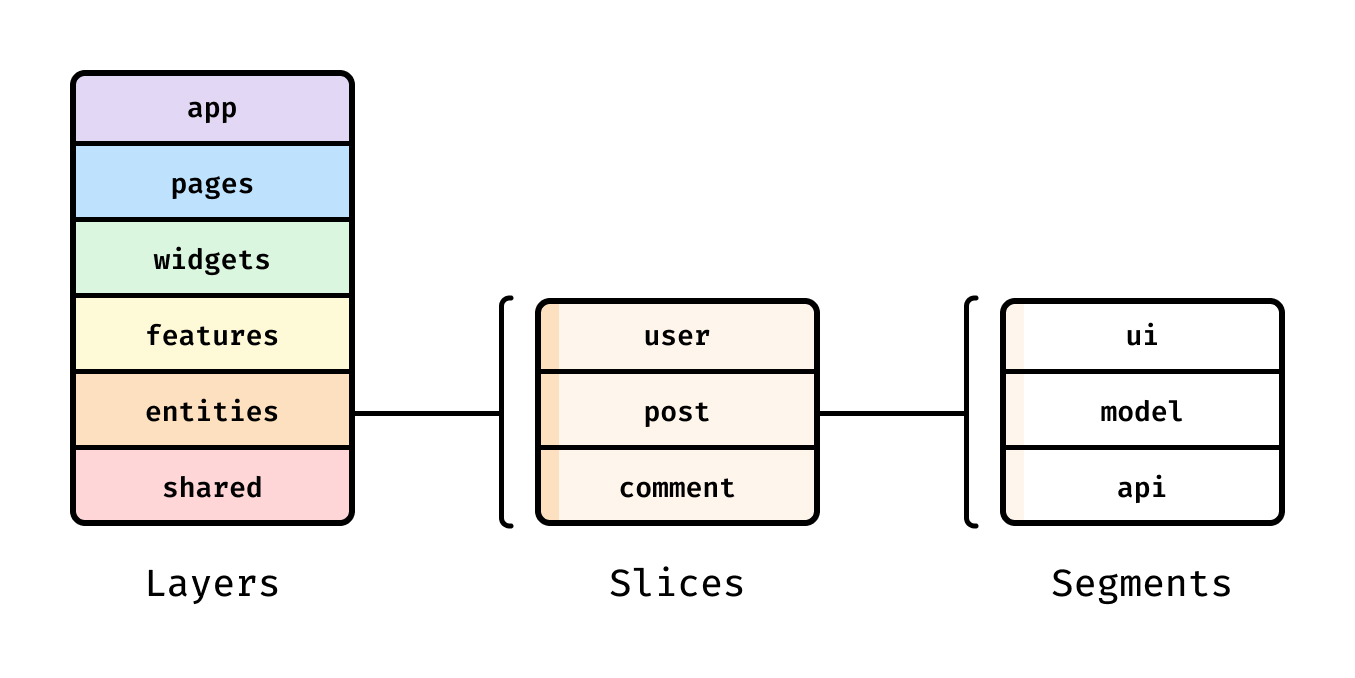
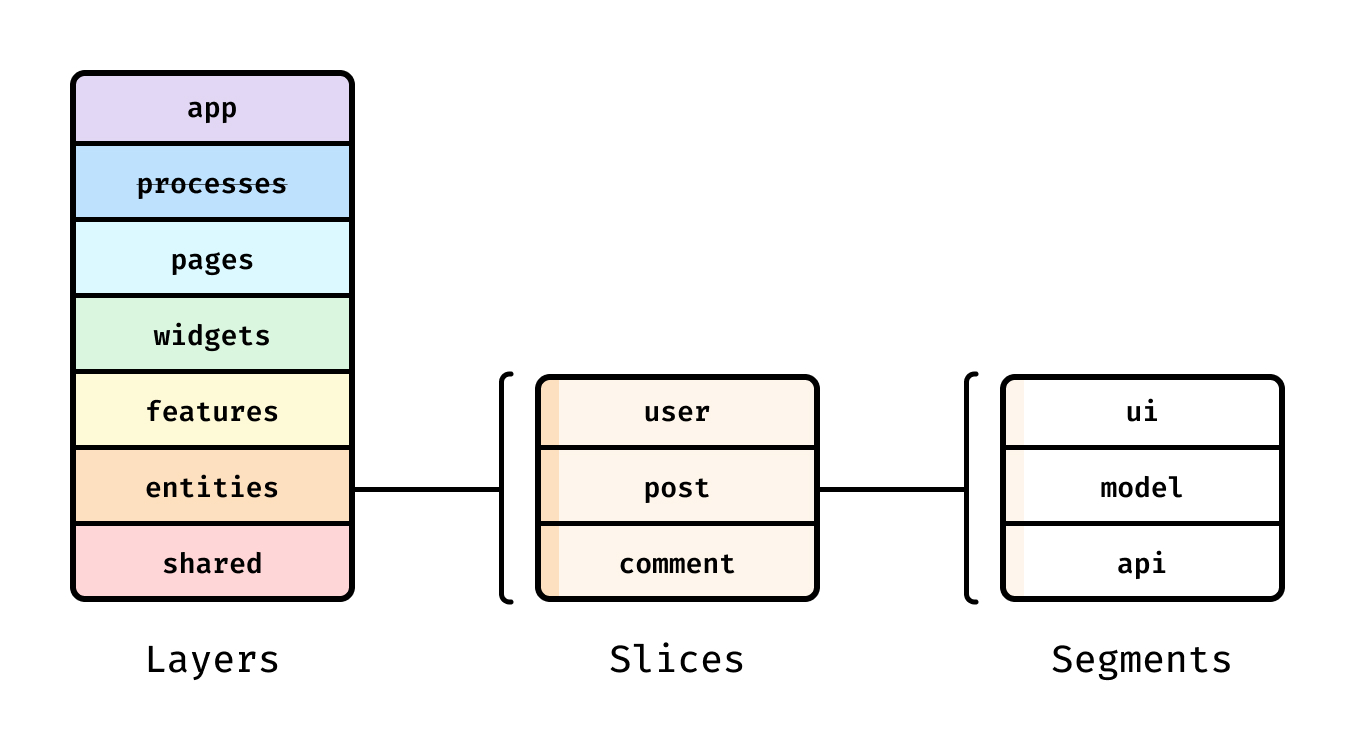
Revive processes under the mark "deprecated" (#571)

diff --git a/i18n/ru/docusaurus-plugin-content-docs/current/get-started/overview.md b/i18n/ru/docusaurus-plugin-content-docs/current/get-started/overview.md
@@ -34,7 +34,9 @@ FSD подходит для проектов и команд любого раз
 4. `widgets` (виджеты) — композиционный слой для соединения сущностей и фич в самостоятельные блоки
     <small>(например, IssuesList, UserProfile)</small>.
 5. `pages` (страницы) — композиционный слой для сборки полноценных страниц из сущностей, фич и виджетов.
-6. `app` — настройки, стили и провайдеры для всего приложения.
+6. `processes` (процессы, устаревший слой) — сложные сценарии, покрывающие несколько страниц.
+    <small>(например, авторизация)</small>
+7. `app` — настройки, стили и провайдеры для всего приложения.
 
 Затем есть **слайсы**, разделяющие код по предметной области. Они группируют логически связанные модули, что облегчает навигацию по кодовой базе. Слайсы не могут использовать другие слайсы на том же слое, что обеспечивает высокий уровень [_связности_][refs-wiki-cohesion] (cohesion) при низком уровне [_зацепления_][refs-wiki-coupling] (coupling).
 

diff --git a/i18n/en/docusaurus-plugin-content-docs/current/get-started/overview.md b/i18n/en/docusaurus-plugin-content-docs/current/get-started/overview.md
@@ -24,7 +24,7 @@ In FSD, a project consists of <mark>layers</mark>, each layer is made up of <mar
 
 ![themed--scheme](/img/visual_schema.jpg)
 
-The **layers** are standardized across all projects and vertically arranged. Modules on one layer can only interact with modules from the layers strictly below. There are currently six of them (bottom to top):
+The **layers** are standardized across all projects and vertically arranged. Modules on one layer can only interact with modules from the layers strictly below. There are currently seven of them (bottom to top):
 
 1. `shared` — reusable functionality, detached from the specifics of the project/business.
    <small>(e.g. UIKit, libs, API)</small>
@@ -35,7 +35,9 @@ The **layers** are standardized across all projects and vertically arranged. Mod
 4. `widgets` — compositional layer to combine entities and features into meaningful blocks.
    <small>(e.g. IssuesList, UserProfile)</small>
 5. `pages` — compositional layer to construct full pages from entities, features and widgets.
-6. `app` — app-wide settings, styles and providers.
+6. `processes` (deprecated) — complex inter-page scenarios. 
+   <small>(e.g., authentication)</small>
+7. `app` — app-wide settings, styles and providers.
 
 
 Then there are **slices**, which partition the code by business domain. This makes your codebase easy to navigate by keeping logically related modules close together. Slices cannot use other slices on the same layer, and that helps with high cohesion and low coupling.
